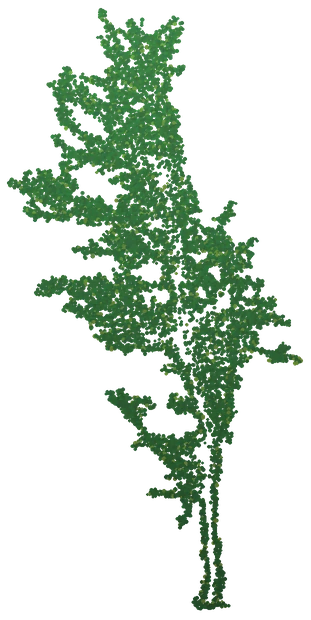
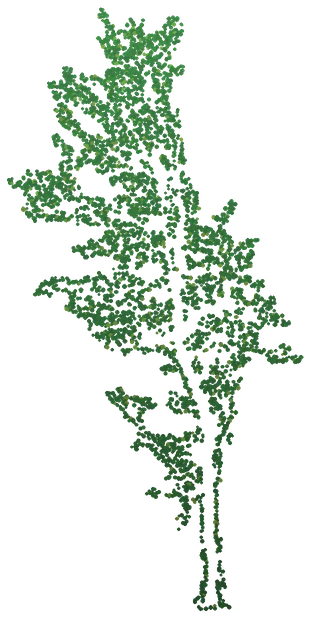
fix(3d): 取消点云预算爬坡（直接满 300 万）；修单木弹窗打不开（treeCard 漏 meta 引用）

Changed region(s): [[0.0289, 0.0, 0.9839, 1.0]]

diff --git a/3d/index.html b/3d/index.html
@@ -681,7 +681,7 @@
 		/* 轮廓增强：只轻微加一点（金总：太黑了，稍微增强一点点就够） */
 		try { viewer.setEDLRadius(1.6); viewer.setEDLStrength(1.15); } catch (e) {}
 		viewer.setFOV(60);
-		viewer.setPointBudget(400_000);   /* 先用低点数快速出图，加载完再逐步加密（见下方 rampBudget） */
+		viewer.setPointBudget(3000000);   /* 先用低点数快速出图，加载完再逐步加密（见下方 rampBudget） */
 		viewer.setDescription('');
 
 		viewer.loadGUI(function () {
@@ -1509,7 +1509,8 @@
 				TC = {
 					box: document.getElementById('treeCard'), name: document.getElementById('tcName'),
 					latin: document.getElementById('tcLatin'), img: document.getElementById('tcImg'),
-					wrap: document.getElementById('tcWrap'), note: document.getElementById('tcNote')
+					wrap: document.getElementById('tcWrap'), meta: document.getElementById('tcMeta'),
+					note: document.getElementById('tcNote')
 				};
 			}
 			return TC;
@@ -1614,13 +1615,9 @@
 			   自动镜头期间压到 40 万（画面一直在动，压低才不卡、也少下数据）。 */
 			/* 原来每 5 秒才抬一档，要 20 秒才到满预算 —— 金总在这段时间里移动视角，
 			   就会看到"点云一直没加载完、停下来才补齐"。改成 1.5 秒一档，约 6 秒到顶。 */
-			var steps = [400000, 900000, 1600000, 2400000, 3000000], si = 0;
-			(function step() {
-				if (++si >= steps.length) return;
-				budgetWant = steps[si];
-				applyBudget();
-				setTimeout(step, 1500);
-			}());
+			/* 金总要求：取消渐进爬坡，一上来就用满 300 万点。 */
+			budgetWant = 3000000;
+			applyBudget();
 			if (_min) {
 				var dx = _max[0] - _min[0], dy = _max[1] - _min[1], dz = _max[2] - _min[2];
 				// 滚轮步长固定（Potree 默认按当前距离，远处快近处慢）
